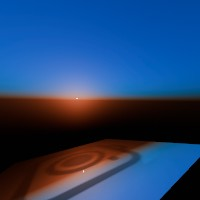
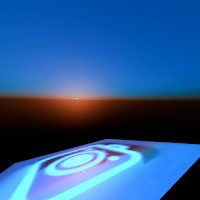
Test fixes.

Changed region(s): [[0.0, 0.69, 1.0, 1.0]]

diff --git a/src/framework/screen.rs b/src/framework/screen.rs
@@ -120,15 +120,15 @@ impl ScreenRepo {
 ///
 /// // Bring the screen close, give it a tight diagonal, and an overlay.
 /// // `always_visible` forces the toolbars on: headless tests have no pointer to focus them.
-/// screen.resolution(320, 240)
+/// screen.resolution(800, 600)
 ///       .screen_distance(2.3)   // 2.3 m away from the viewer
-///       .screen_diagonal(1.2)   // 1.2 m diagonal (compact)
 ///       .set_overlay_text("Hello, Screen!")
 ///       .always_visible(true);
 ///
 /// filename_scr = "screenshots/screen.jpeg"; fov_scr = 20.0;
 /// test_screenshot!( // !!!! Get a proper main loop !!!!
 ///     screen.draw(&token);
+///
 /// );
 /// # sk::Sk::shutdown();
 /// ```
@@ -335,9 +335,9 @@ impl Screen {
         (size.x.powf(2.0) + size.y.powf(2.0)).sqrt()
     }
 
-    /// Diagonal (meters) of the current [`Screen::screen_size`], always derived from it: the size is the single
-    /// stored source of truth (it follows `Appearence::window_size * ui_scale`), so the diagonal is never cached in a
-    /// field of its own. Only the ui zoom can make it change as long as the size stays fixed.
+    /// Diagonal (meters) of the current [`Screen::screen_size`], always derived from it: the size is the single stored
+    /// source of truth (it follows `Appearence::window_size * ui_scale`), so the diagonal is never cached in a field
+    /// of its own. Only the ui zoom can make it change as long as the size stays fixed.
     fn diagonal(&self) -> f32 {
         Self::diagonal_of(self.screen_size)
     }

diff --git a/src/tex.rs b/src/tex.rs
@@ -2442,7 +2442,7 @@ impl Tex {
     /// use stereokit_rust::{util::{named_colors, SHLight, SphericalHarmonics}, maths::Vec3,
     ///                      tex::{Tex, TexFormat, TexType}};
     ///
-    /// let tex = Tex::gen_color(named_colors::VIOLET, 128, 128,
+    /// let mut tex = Tex::gen_color(named_colors::VIOLET, 128, 128,
     ///                          TexType::Cubemap, TexFormat::Rgba32Srgb);
     ///
     /// // Skip the calculation by providing the lighting directly:
